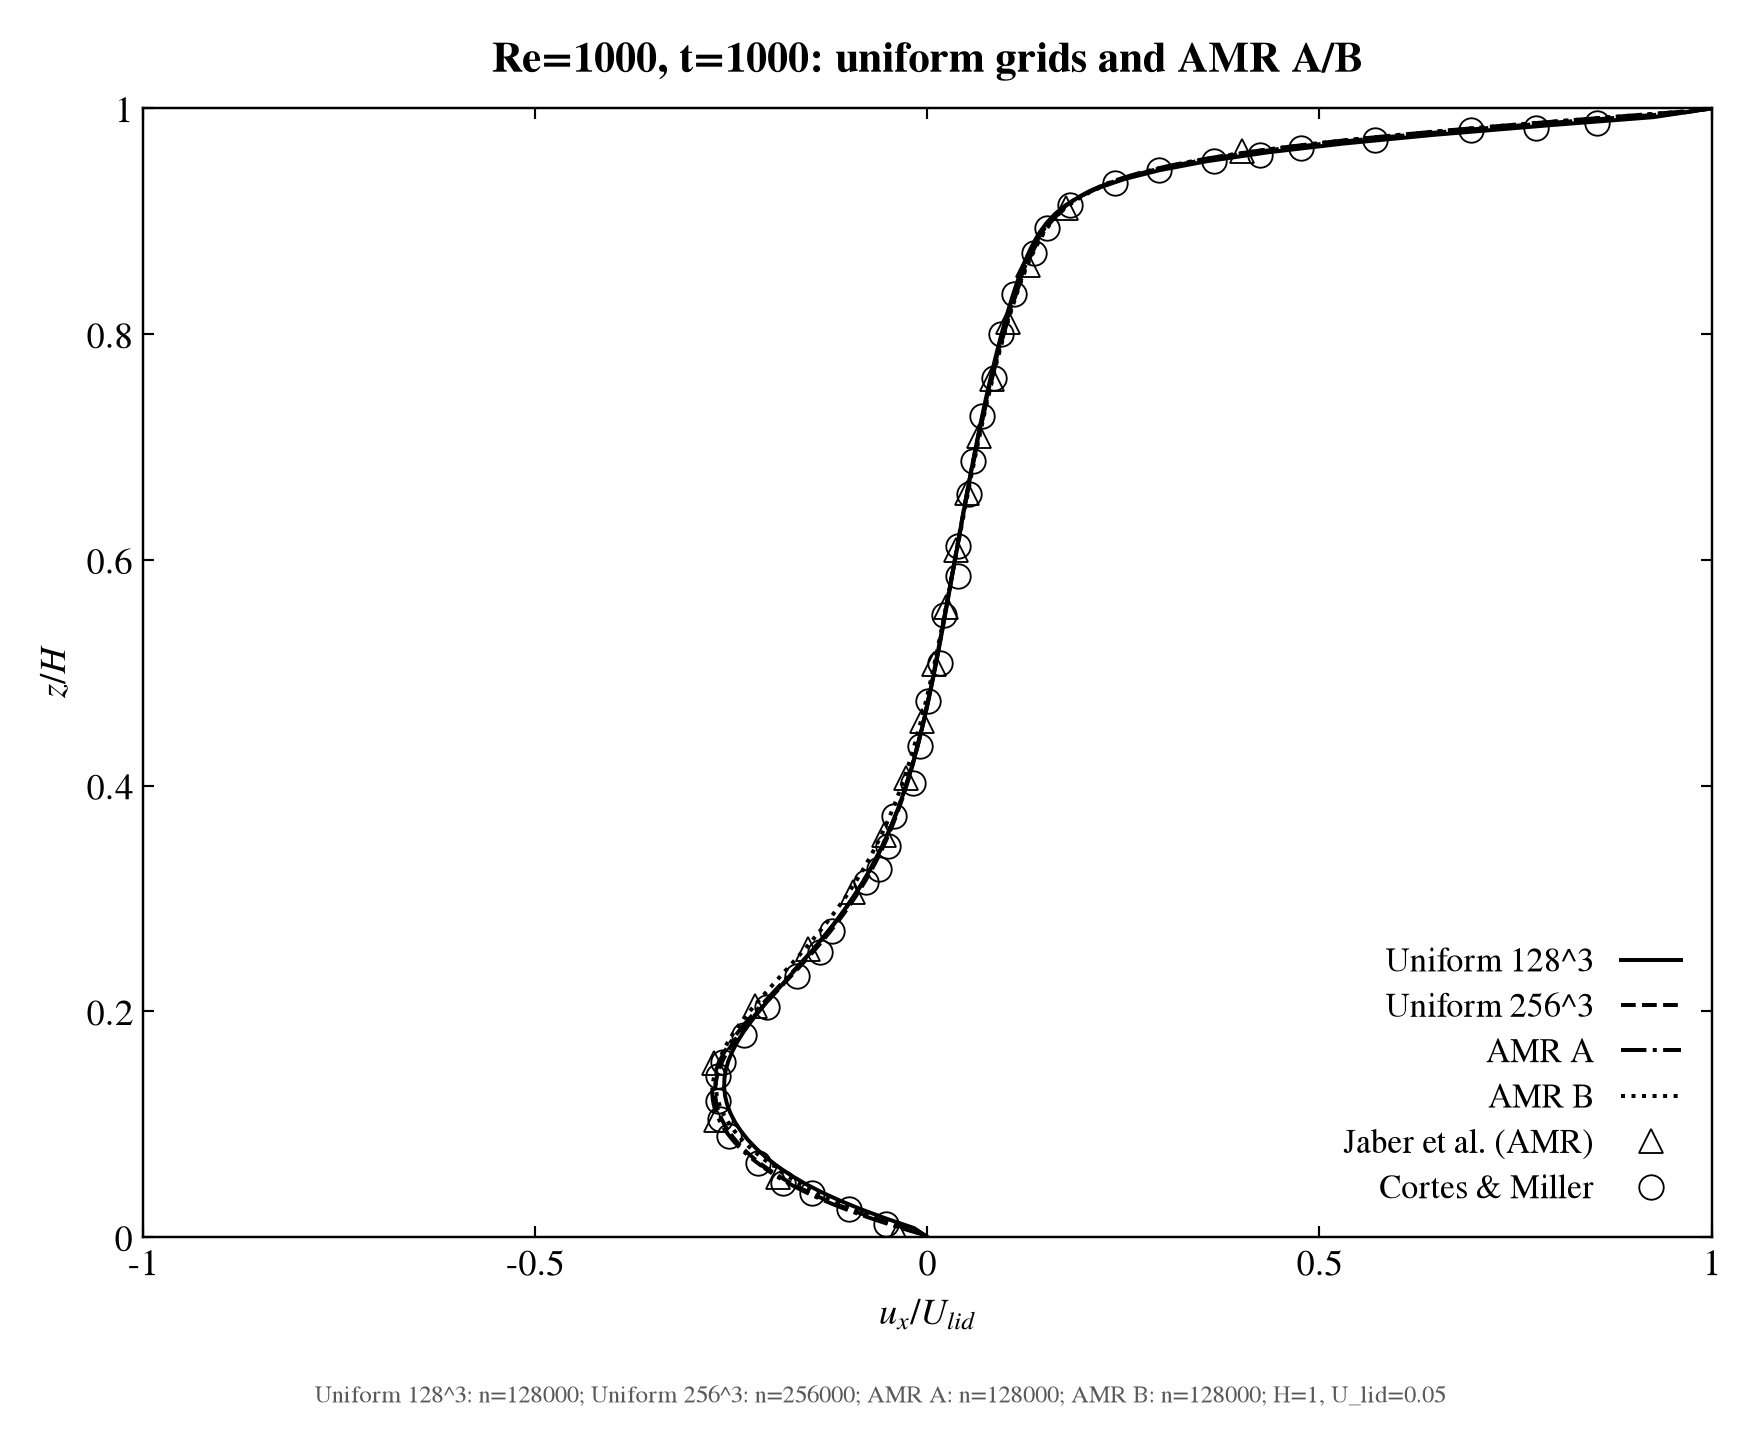
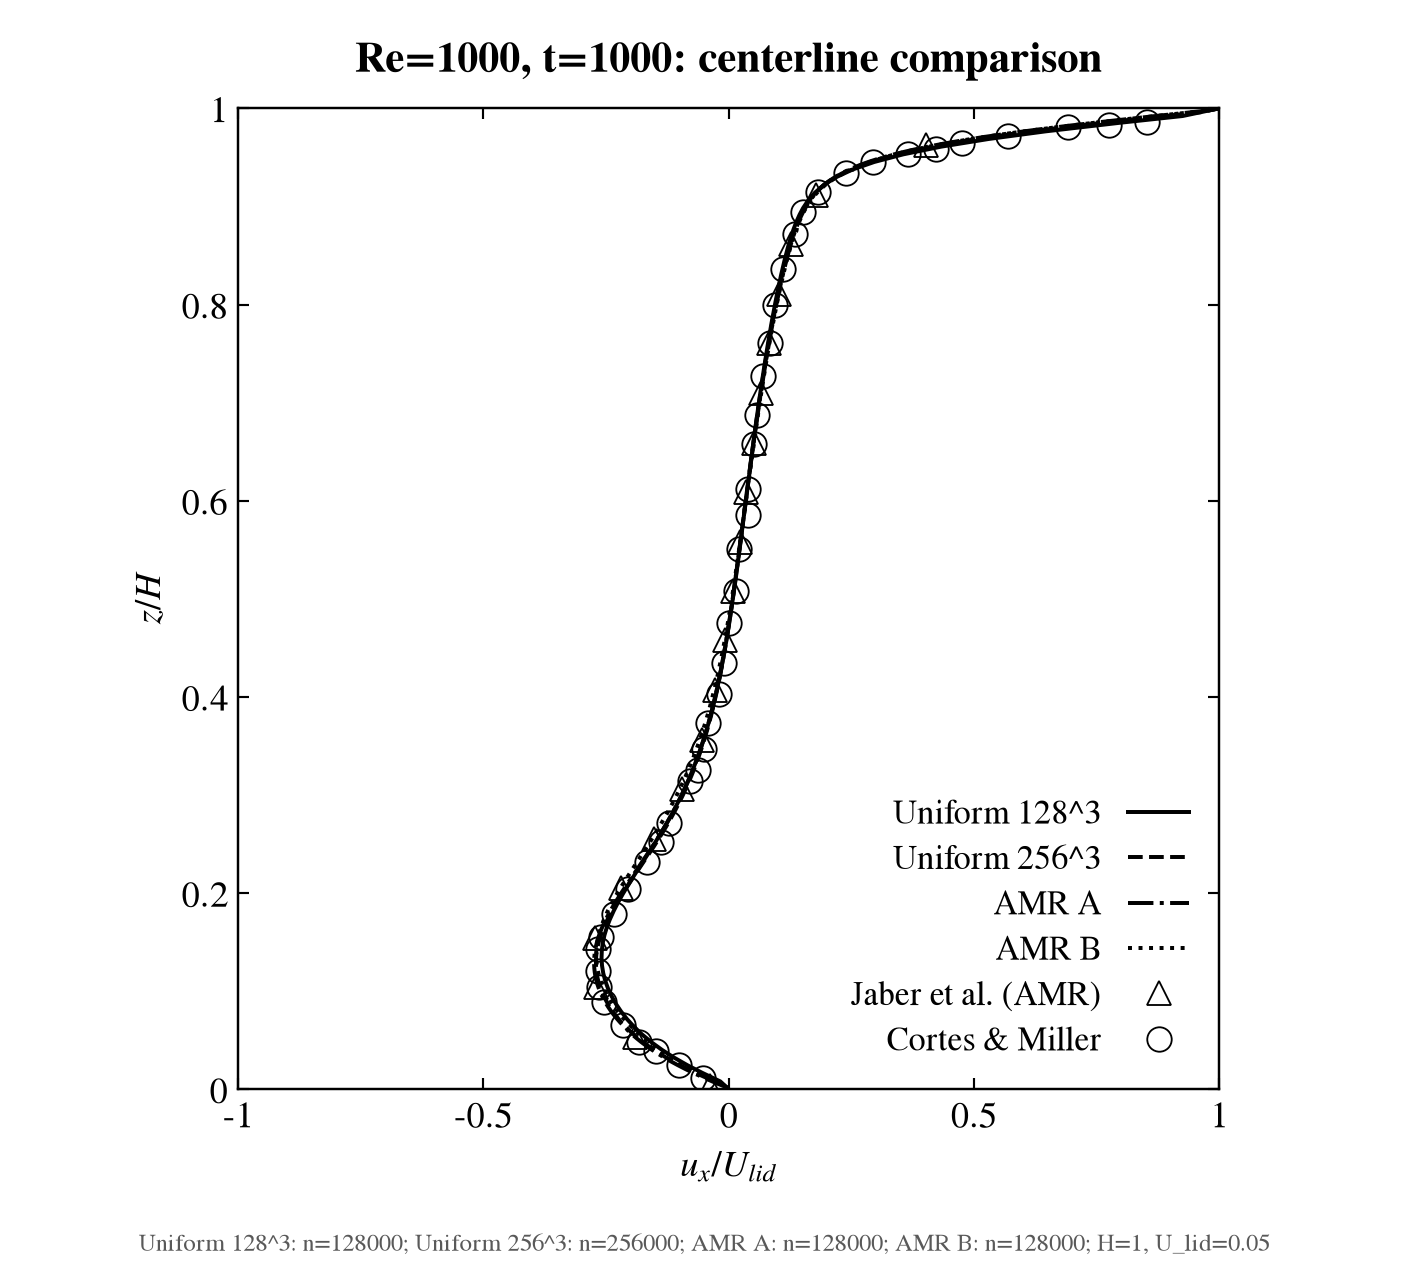
恢复中心线图幅并支持正方形绘图区

diff --git a/projects/3Dcases/Computing_performance_test/BOX3D_OSI/data_post_processing/plot_centerline.py b/projects/3Dcases/Computing_performance_test/BOX3D_OSI/data_post_processing/plot_centerline.py
@@ -85,7 +85,7 @@ def reference_errors(simulation, reference, *, outside="error"):
 def plot_profiles(profiles, references, output, *, title="Centerline velocity comparison",
                   reference_source="none", reference_labels=None, xlim=(-1, 1), ylim=(0, 1),
                   xlabel=r"$u_x/U_{lid}$", ylabel=r"$z/H$", figsize=(6.4, 5.8),
-                  linewidth=0.9, markersize=8, dpi=220):
+                  linewidth=0.9, markersize=8, dpi=220, square_axes=False):
     """共用绘图实现；曲线、来源、步数和各自标度由调用方传入，不绑定作业号或 Re。"""
     # 延迟加载绘图库，使提取入口复用数据校验时不依赖绘图环境。
     import matplotlib
@@ -96,6 +96,8 @@ def plot_profiles(profiles, references, output, *, title="Centerline velocity co
     with plt.rc_context({"font.family": "serif", "font.serif": ["STIXGeneral"],
                          "mathtext.fontset": "stix", "font.size": 12}):
         fig, ax = plt.subplots(figsize=figsize)
+        if square_axes:
+            ax.set_box_aspect(1)
         colors = ["black"]
         linestyles = ["-", "--", "-.", ":"]
         for index, profile in enumerate(profiles):
@@ -158,6 +160,7 @@ def main():
     parser.add_argument("--xlabel", default=r"$u_x/U_{lid}$")
     parser.add_argument("--ylabel", default=r"$z/H$")
     parser.add_argument("--figsize", nargs=2, type=float, default=(6.4, 5.8), metavar=("WIDTH", "HEIGHT"))
+    parser.add_argument("--square-axes", action="store_true", help="绘图区横纵轴显示长度相同")
     parser.add_argument("--linewidth", type=float, default=0.9)
     parser.add_argument("--markersize", type=float, default=8)
     parser.add_argument("--dpi", type=int, default=220)
@@ -195,7 +198,7 @@ def main():
         reference_source += f" ({args.reference_source})"
     plot_profiles(profiles, references, args.output, title=args.title, reference_source=reference_source,
                   xlim=args.xlim, ylim=args.ylim, xlabel=args.xlabel, ylabel=args.ylabel, figsize=args.figsize,
-                  linewidth=args.linewidth, markersize=args.markersize, dpi=args.dpi)
+                  linewidth=args.linewidth, markersize=args.markersize, dpi=args.dpi, square_axes=args.square_axes)
     with args.output.with_suffix(".csv").open("w", newline="") as stream:
         writer = csv.writer(stream)
         writer.writerow(["profile", "step", "z_over_H", "u_over_ulid"])
@@ -208,7 +211,7 @@ def main():
             writer.writerows(metrics)
     report = {"profiles": [{key: value for key, value in p.items() if key != "points"} for p in profiles],
               "plot": {"xlim": args.xlim, "ylim": args.ylim, "xlabel": args.xlabel, "ylabel": args.ylabel,
-                       "figsize": args.figsize, "linewidth": args.linewidth, "markersize": args.markersize, "dpi": args.dpi},
+                       "figsize": args.figsize, "square_axes": args.square_axes, "linewidth": args.linewidth, "markersize": args.markersize, "dpi": args.dpi},
               "reference": reference_source, "errors": metrics, "outside_reference": args.outside_reference,
               "allow_unmasked": args.allow_unmasked, "round_z": args.round_z,
               "input_hashes": {str(p.resolve()): hashlib.sha256(p.read_bytes()).hexdigest() for p in sources},

diff --git a/projects/3Dcases/Computing_performance_test/BOX3D_OSI/docs/ai_changes/2026-11-02-centerline-square-axes.md b/projects/3Dcases/Computing_performance_test/BOX3D_OSI/docs/ai_changes/2026-11-02-centerline-square-axes.md
@@ -1,0 +1,6 @@
+# 中心线对比图恢复比例
+
+目的：修正 t=1000 A/B 更新图在重绘时把图幅从 6.4×5.8 改为 8×6.5 的排版变化。
+范围：BOX3D_OSI 中心线绘图与对应更新图，不改变采样数据和数值结果。
+主要改动：复用 plot_profiles 增加可选 --square-axes，使用 set_box_aspect(1) 使绘图区横纵轴显示长度一致；默认关闭。此次更新图恢复 6.4×5.8 图幅并开启此选项，保存命令及元信息。
+验证：仓库 .venv Python 语法解析通过；重绘成功，人工检查正方形绘图区、四条曲线和参考点、标题及页脚；git diff --check 通过。未重复提取或运行求解器。

diff --git a/projects/3Dcases/Computing_performance_test/BOX3D_OSI/data_post_processing/README.md b/projects/3Dcases/Computing_performance_test/BOX3D_OSI/data_post_processing/README.md
@@ -171,3 +171,5 @@ Level-0、128³、三分量双精度的现有布局，并核对数据与 Cell_H 
 不带该选项会调用选定的ParaView后端。掩码检查仍严格，内部缺口拒绝跨越插值。
 原有 `report.json`、`comparison.png`、`reference_errors.csv` 作为历史结果保留，
 提取入口不再生成或更新它们。需要新的参考比较时使用绘图入口的新输出路径。
+
+绘图区需横纵轴等长时，给 `plot_centerline.py` 传入 `--square-axes`；它控制绘图区为正方形，不改变数据单位比例，默认保持既有排版。
